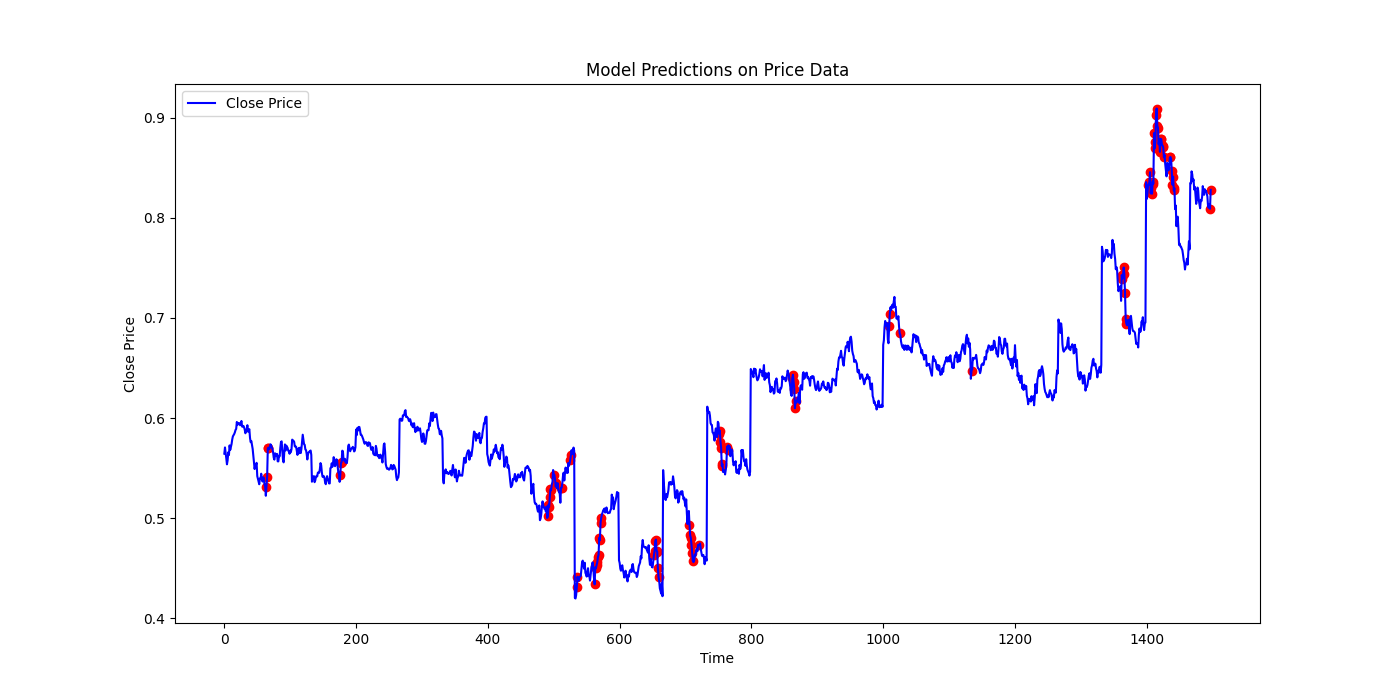
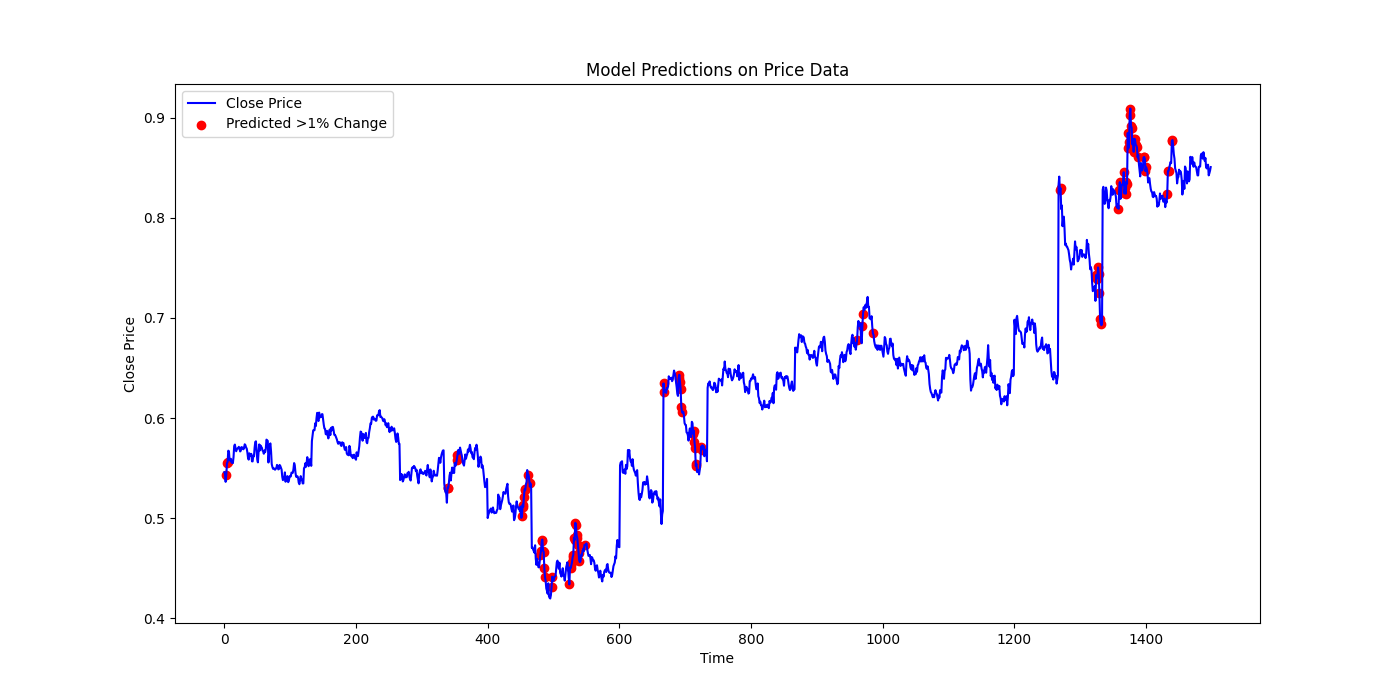
pc home

diff --git a/strategy/ai_cnn.py b/strategy/ai_cnn.py
@@ -103,7 +103,7 @@ cnn_model = {
                     'scelar': '1m.gz',
                     'window_size': 10,
                     'threshold_window': 0.01,
-                    'predict_percent': 0.3,
+                    'predict_percent': 0.25,
                     'trade': 'long',
                     'numeric': ['open', 'high', 'low', 'close', 'volume'],
                     'comment': 'Обучен на 3 месяцха 03,04,05.2024'
@@ -115,7 +115,7 @@ cnn_model = {
                     'scelar': '5m.gz',
                     'window_size': 4,
                     'threshold_window': 0.01,
-                    'predict_percent': 0.5,
+                    'predict_percent': 0.4,
                     'trade': 'long',
                     'numeric': ['open', 'high', 'low', 'close', 'volume'],
                     'comment': 'Обучен на 2 месяце 04.2024 и 03.2024'
@@ -127,7 +127,7 @@ cnn_model = {
                     'scelar': '15m.gz',
                     'window_size': 3,
                     'threshold_window': 0.01,
-                    'predict_percent': 0.5,
+                    'predict_percent': 0.4,
                     'trade': 'long',
                     'numeric': ['open', 'high', 'low', 'close', 'volume'],
                     'comment': 'Обучен на 2 месяцах 04.2024 и 03.2024'
@@ -139,7 +139,7 @@ cnn_model = {
                     'scelar': '30m.gz',
                     'window_size': 3,
                     'threshold_window': 0.03,
-                    'predict_percent': 0.5,
+                    'predict_percent': 0.4,
                     'trade': 'long',
                     'numeric': ['open', 'high', 'low', 'close', 'volume'],
                     'comment': 'Обучен на 2 месяцах 04.2024 и 03.2024'
@@ -178,11 +178,13 @@ class Strategy_AI_CNN(Api_Trade_Method):
 
     async def Start(self):
         if self.CheckStopStartStg():
+            print('tyt1')
             await self.checkTakeProfit()
+            print('tyt2')
             self.predict_list = self.checkAiPredict()
-            current_lastprice_list = self.check_price(self.predict_list)
-            print(f'current_lastprice_list {current_lastprice_list}; predict_list {self.predict_list}')
-            if current_lastprice_list:
+            print(f'predict_list {self.predict_list}')
+            if self.predict_list:
+                print('TYT')
                 await self.tryBuy()
             self.session.close()
         else:
@@ -192,19 +194,17 @@ class Strategy_AI_CNN(Api_Trade_Method):
         # - тикер берет текущую цену
         # - если цена до 2 децимел соотвествует уже купленной, то не покупаем
         # - если такой цены нет, покупаем и пишем в stg_dict в базе rounded_data по которому проверяем наличие уже купленной цены
-        rounded_data = [{**item, 'close': round(item['close'], self.stg_dict['decimal_part'])} for item in self.predict_list]
+        rounded_data = [round(item, self.stg_dict['decimal_part']) for item in self.predict_list]
         print(rounded_data)
         priceCountQ = self.session.query(TradeHistory).filter(TradeHistory.filled==False, TradeHistory.stg_id==self.stg_id)
         records = priceCountQ.all()
         if records:
             for record in records:
                 tx_dict = record.tx_dict
-                rounded_data_set = set(rounded_data)
-                has_match = any(item in rounded_data_set for item in tx_dict['predict_list'])
+                has_match = any(item in tx_dict['predict_list'] for item in self.predict_list)
                 if has_match:
                     return
-                else:
-                    await self.Buy()
+            await self.Buy()
         else:
             await self.Buy()
 
@@ -219,7 +219,7 @@ class Strategy_AI_CNN(Api_Trade_Method):
             decimal_places = len(tx['price'].split('.')[1])
             percent = (float(tx['price']) / 100) * self.stg_dict['tp_percent']  # считаем сумму процента для takeprofit
             print(f"percent {percent} : del {(float(tx['price']) / 100)} : tp_precent {self.stg_dict['tp_percent']}")
-            tx['tp_price'] = float(tx['price']) + round(percent, decimal_places)
+            tx['tp_price'] = round(float(tx['price']) + percent, decimal_places)
             print(f"percent {percent} : del {(float(tx['price']) / 100)} : tp_precent {self.stg_dict['tp_percent']} : tx['tp_price'] {tx['tp_price']}")
             self.createTX(tx=tx)
             config.message = emoji.emojize(
@@ -283,6 +283,7 @@ class Strategy_AI_CNN(Api_Trade_Method):
                                    klines=klines)
                     predict_price.append(predict.run())
                     result = self.check_price(predict_price)
+                    print('tytAI')
         return result
 
     async def checkTakeProfit(self):
@@ -559,9 +560,11 @@ class CNNPredict():
         new_predictions = self.keras_model.predict(x_new)
         new_predicted_classes = (new_predictions > self.predict_percent).astype(int)  # ton 0.6
         # Вызов функции отрисовки
-        self.plot_predictions(new_predicted_classes.flatten())
+        #try:
+        #    self.plot_predictions(new_predicted_classes.flatten())
+        #except Exception as e:
+        #    print(f'Error self.plot_predictions {e}')
         print(f"Predicted classes {self.model_dict['interval']}: {len(new_predicted_classes)}")
-
         unique, counts = np.unique(new_predicted_classes, return_counts=True)
         print("Unique predicted classes and their counts:", dict(zip(unique, counts)))
 
@@ -582,7 +585,6 @@ class CNNPredict():
         x_new, close_prices = self.create_rolling_windows()
         return x_new, close_prices
 
-    @njit
     def create_rolling_windows(self): # with VOLUME
         x = []
         #y = []

diff --git a/trade_classes.py b/trade_classes.py
@@ -182,24 +182,22 @@ class Api_Trade_Method():
                     current_end = end_timestamp
 
                 # Запрос к API
-                kline = self.api_session.get_kline(
-                    category="linear",
-                    symbol=symbol,
-                    interval=interval,
-                    start=current_start,
-                    end=current_end,
-                    limit=max_candles_per_request
-                )
-
+                try:
+                    kline = self.api_session.get_kline(
+                        category="linear",
+                        symbol=symbol,
+                        interval=interval,
+                        start=current_start,
+                        end=current_end,
+                        limit=max_candles_per_request
+                    )
+                    all_candles.extend(kline['result']['list'])
+                    current_start = current_end + 60 * 1000  # Переходим к следующей минуте
+                except Exception as e:
+                    print(f'def get_kline API METHOD Error {e}')
+                    break
                 # Добавляем полученные данные в список
-                all_candles.extend(kline['result']['list'])
-
                 # Перемещаем начальный timestamp на следующий интервал
-                current_start = current_end + 60 * 1000  # Переходим к следующей минуте
-
-
-
-
         else:
             all_candles = self.api_session.get_kline(
                 category="linear",
